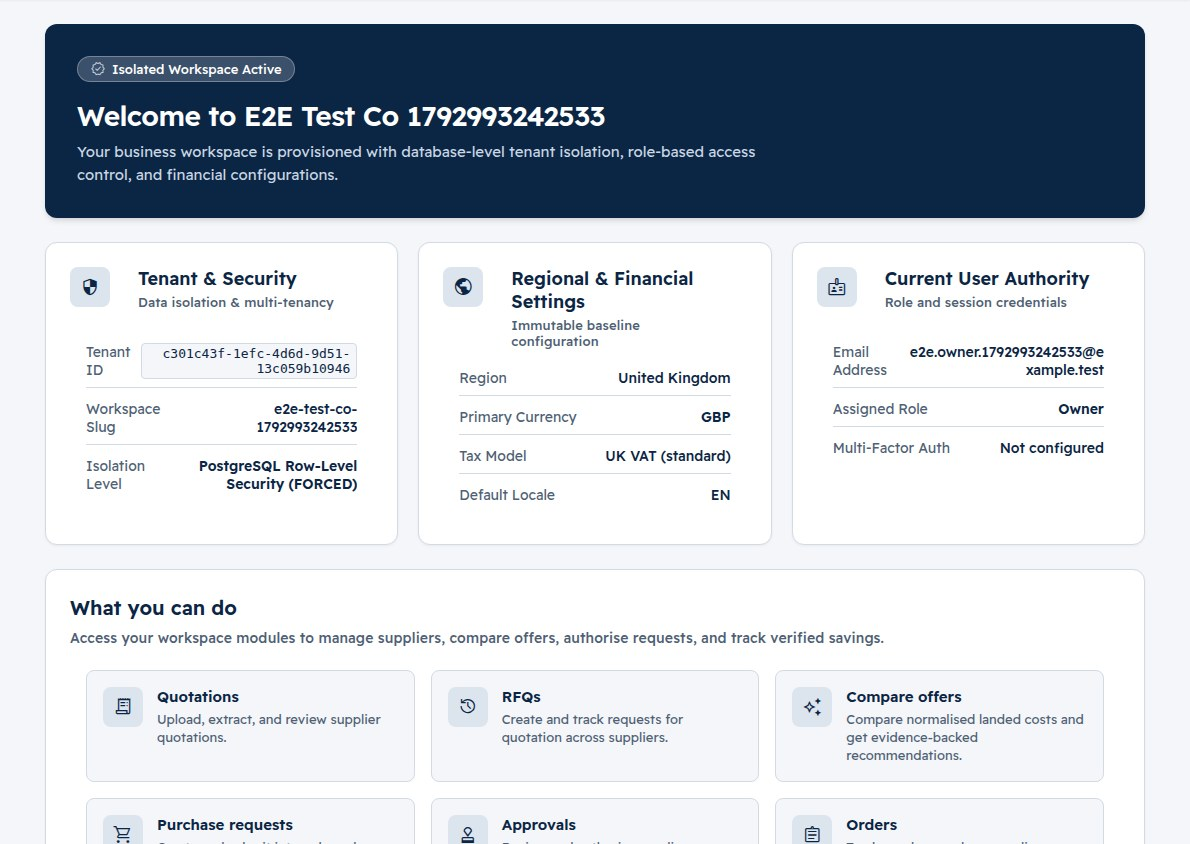
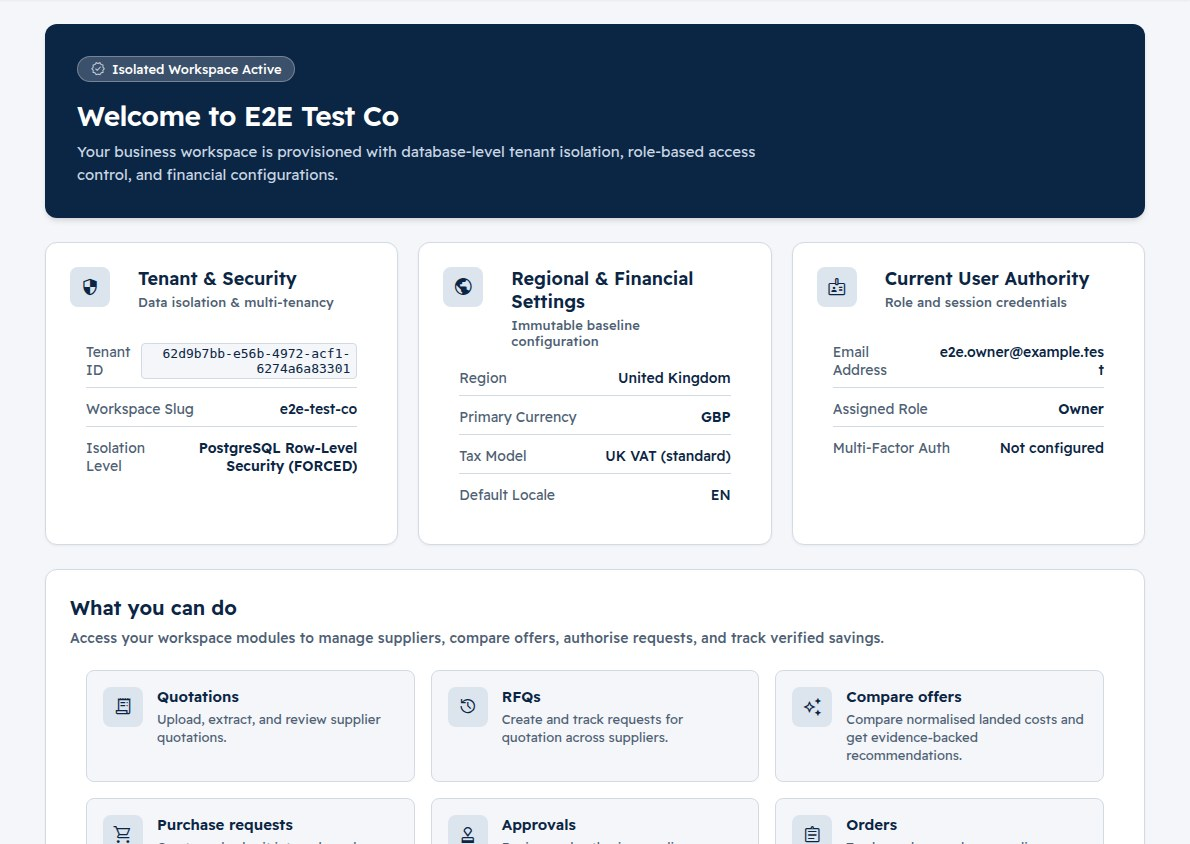
test(docs): fixed owner and member names in the CI docs capture, so 17 stops drifting (PPS-69) (#294)
* test(docs): fixed owner and member names in the CI docs capture, so 17 stops drifting (PPS-69)

The approval queue's Requester column shows the E2E owner's email, which
carried a new Date.now() every run and kept 17-approval-queue at 0.92-0.94%
drift against a freshly committed image. The workspace name (02) and the
buyer's email (18) varied the same way. A docs capture under CI signs up once
into a fresh database, so it now uses e2e.owner@example.test, "E2E Test Co"
and e2e.member@example.test. The docs job uploads its regenerated images after
every complete capture, not only on drift, so runs can be compared.

* docs(user): 02, 17 and 18 from docs-screenshots run 40301915944 with the fixed owner and member names (PPS-69)

* docs(gtm): track the approval-queue Actions column bug as P-40 (PPS-70)

---------

diff --git a/apps/web/tests/e2e/global-setup.ts b/apps/web/tests/e2e/global-setup.ts
@@ -48,11 +48,17 @@ function mintInvitation(
 }
 
 async function globalSetup(): Promise<void> {
-  const stamp = Date.now();
+  // A docs capture under CI signs up once into a fresh database (playwright.docs.config.ts never
+  // retries), so it needs no timestamp. The owner email and workspace name appear in screenshots
+  // 02, 17 and 18, and a new timestamp each run kept 17 at ~0.93% drift, just under the 1% limit
+  // (PPS-69). Every other run reuses its database, so the timestamp keeps the sign-up unique.
+  const docsCapture =
+    !!process.env['CI'] && process.env['CAPTURE_USER_DOC_SCREENSHOTS'] === '1';
+  const suffix = docsCapture ? '' : `.${Date.now()}`;
   const credentials: E2ECredentials = {
-    ownerEmail: `e2e.owner.${stamp}@example.test`,
+    ownerEmail: `e2e.owner${suffix}@example.test`,
     ownerPassword: 'E2ePassword123!',
-    businessName: `E2E Test Co ${stamp}`,
+    businessName: `E2E Test Co${suffix.replace('.', ' ')}`,
   };
 
   const invitation = mintInvitation(credentials.ownerEmail);

diff --git a/apps/web/tests/e2e/support/api.ts b/apps/web/tests/e2e/support/api.ts
@@ -166,10 +166,14 @@ export interface CreatedMember {
  *
  * The address is unique per call: the server allows only one pending invitation per address per
  * workspace, so reusing a fixed address makes a suite that passes once and 409s ever after.
+ * Pass `email` only for a workspace that is used once, such as the docs capture under CI.
  */
-export async function createMember(role = 'buyer', ownerTokenOverride?: string): Promise<CreatedMember> {
+export async function createMember(
+  role = 'buyer',
+  ownerTokenOverride?: string,
+  email = `e2e.member.${Date.now()}.${Math.floor(Math.random() * 10000)}@example.test`,
+): Promise<CreatedMember> {
   const ownerToken = ownerTokenOverride ?? (await signInOwner());
-  const email = `e2e.member.${Date.now()}.${Math.floor(Math.random() * 10000)}@example.test`;
   const password = 'E2eMemberPassword123!';
 
   const invitation = await call<{ token?: string }>('/invitations', {

diff --git a/apps/web/tests/e2e/user-documentation-screenshots.spec.ts b/apps/web/tests/e2e/user-documentation-screenshots.spec.ts
@@ -396,7 +396,8 @@ async function buildCommercialFixtures(page: Page): Promise<ScreenshotFixtures> 
   });
   await apiAsUser(ownerToken, 'POST', `/requests/${request.id}/submit`);
 
-  await createMember('buyer', ownerToken);
+  // 18-team-management shows this address; under CI it is fixed like the sample names above.
+  await createMember('buyer', ownerToken, process.env['CI'] ? 'e2e.member@example.test' : undefined);
 
   return {
     ownerToken,

diff --git a/docs/gtm/gtm-execution-plan.md b/docs/gtm/gtm-execution-plan.md
@@ -113,6 +113,7 @@ since the 2026-10-24 move; the old `PP` key is in brackets.
 | P-30 | PPS-59 | P-31 | PPS-61 | P-32 | PPS-62 |
 | P-33 | PPS-63 | P-34 | PPS-64 | P-35 | PPS-65 |
 | P-36 | PPS-66 | P-37 | PPS-67 | P-38 | PPS-68 |
+| P-39 | PPS-69 | P-40 | PPS-70 | | |
 
 Without a plan ID: PPS-2 (PP-21), PPS-7 (PP-22), PPS-8 (PP-23), PPS-22 (PP-24), PPS-27 (PP-25),
 PPS-28 (PP-26), PPS-23 (PP-27) — architecture diagrams and two shipped code changes, all Done.
@@ -242,6 +243,8 @@ PR → CI → merge → link PR on the PPS task. Refs are in the GTM plan's curr
 | [ ] P-36 | — | Found by the English rounds: euro amounts drop a trailing zero ("EUR 1,289.5") on the purchase request, and a zero saving shows as red "-SAR 0.00" on the ledger | Orch | — | both display as "EUR 1,289.50" and "SAR 0.00", with tests (PPS-66) |
 | [x] P-37 | — | Owner asked for the `find-skills` agent skill (vercel-labs/skills). Added unchanged at `.claude/skills/find-skills/SKILL.md`, so every Claude Code session on the repo has it (cloud containers are wiped when a session ends) | Orch | — | **done 2026-10-25: #288 (b80157a); PPS-67 Done** |
 | [ ] P-38 | — | Docs screenshot drift failed #291 on 28-email-ingestion-log alone (2.23%): the seeded email rows were dated `now()`, so the Received At column showed the capture day and the image changed daily. The spec now anchors them at noon UTC today, so the dashboard's today/week/month counts stay 5 at any hour, then moves them to a fixed day (2026-10-26, the day #292's committed image shows) before capturing 28 | Orch | — | PR merged; two consecutive docs-screenshot runs pass the diff (PPS-68) |
+| [ ] P-39 | — | Docs screenshot 17-approval-queue sat at 0.92–0.94% drift, just under the 1% limit: its Requester column shows the E2E owner's email, which carried a new `Date.now()` each run (as did the workspace name on 02 and the buyer's email on 18). A docs capture under CI now signs up as `e2e.owner@example.test` / `E2E Test Co` with a fixed buyer address; the docs job uploads its images after every complete capture | Orch | — | PR merged; two consecutive docs-screenshot runs show 17 well under the limit (PPS-69) |
+| [ ] P-40 | — | Found in docs screenshot 17 (P-39): on the web approval queue, Approve/Reject render under the Lines column and the Actions column is empty. Likely `display: flex` on the `.lines-cell` / `.actions-cell` `<td>`s takes them out of table layout | Orch → Agy | — | buttons under Actions in EN and AR, with a test and zero axe violations; 17 re-committed from CI (PPS-70) |
 
 ### E — Pilot environment
 
